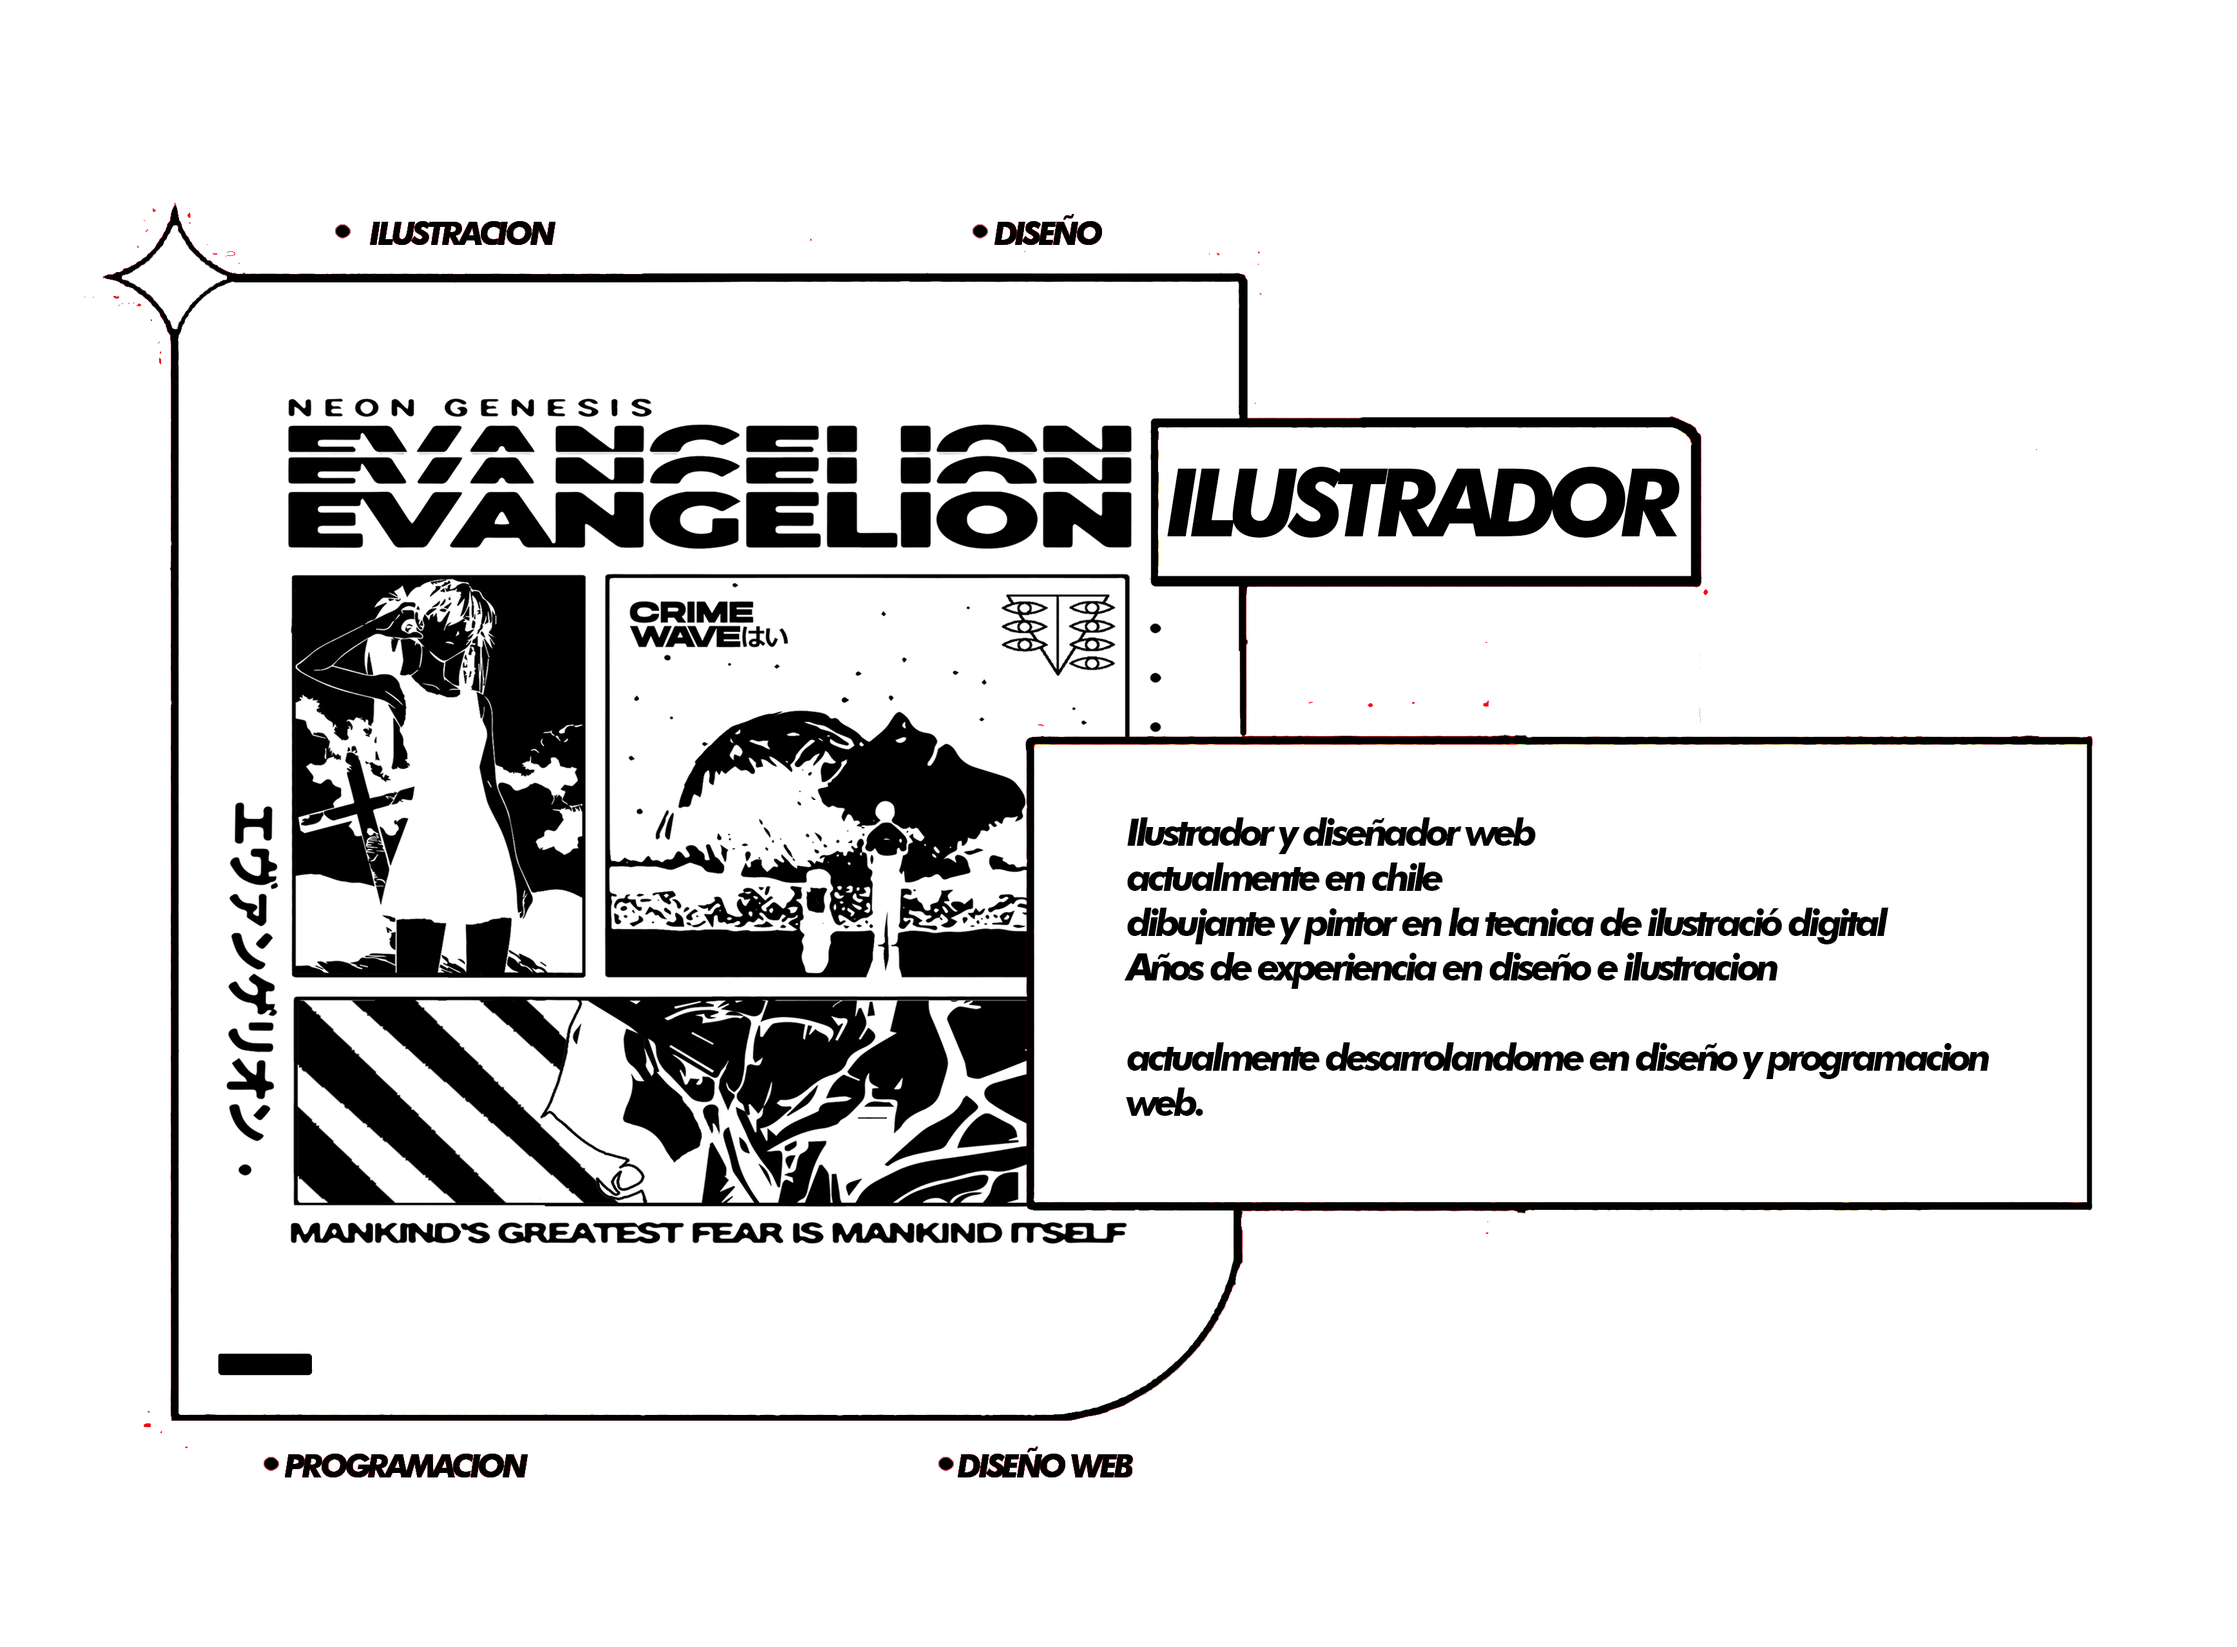
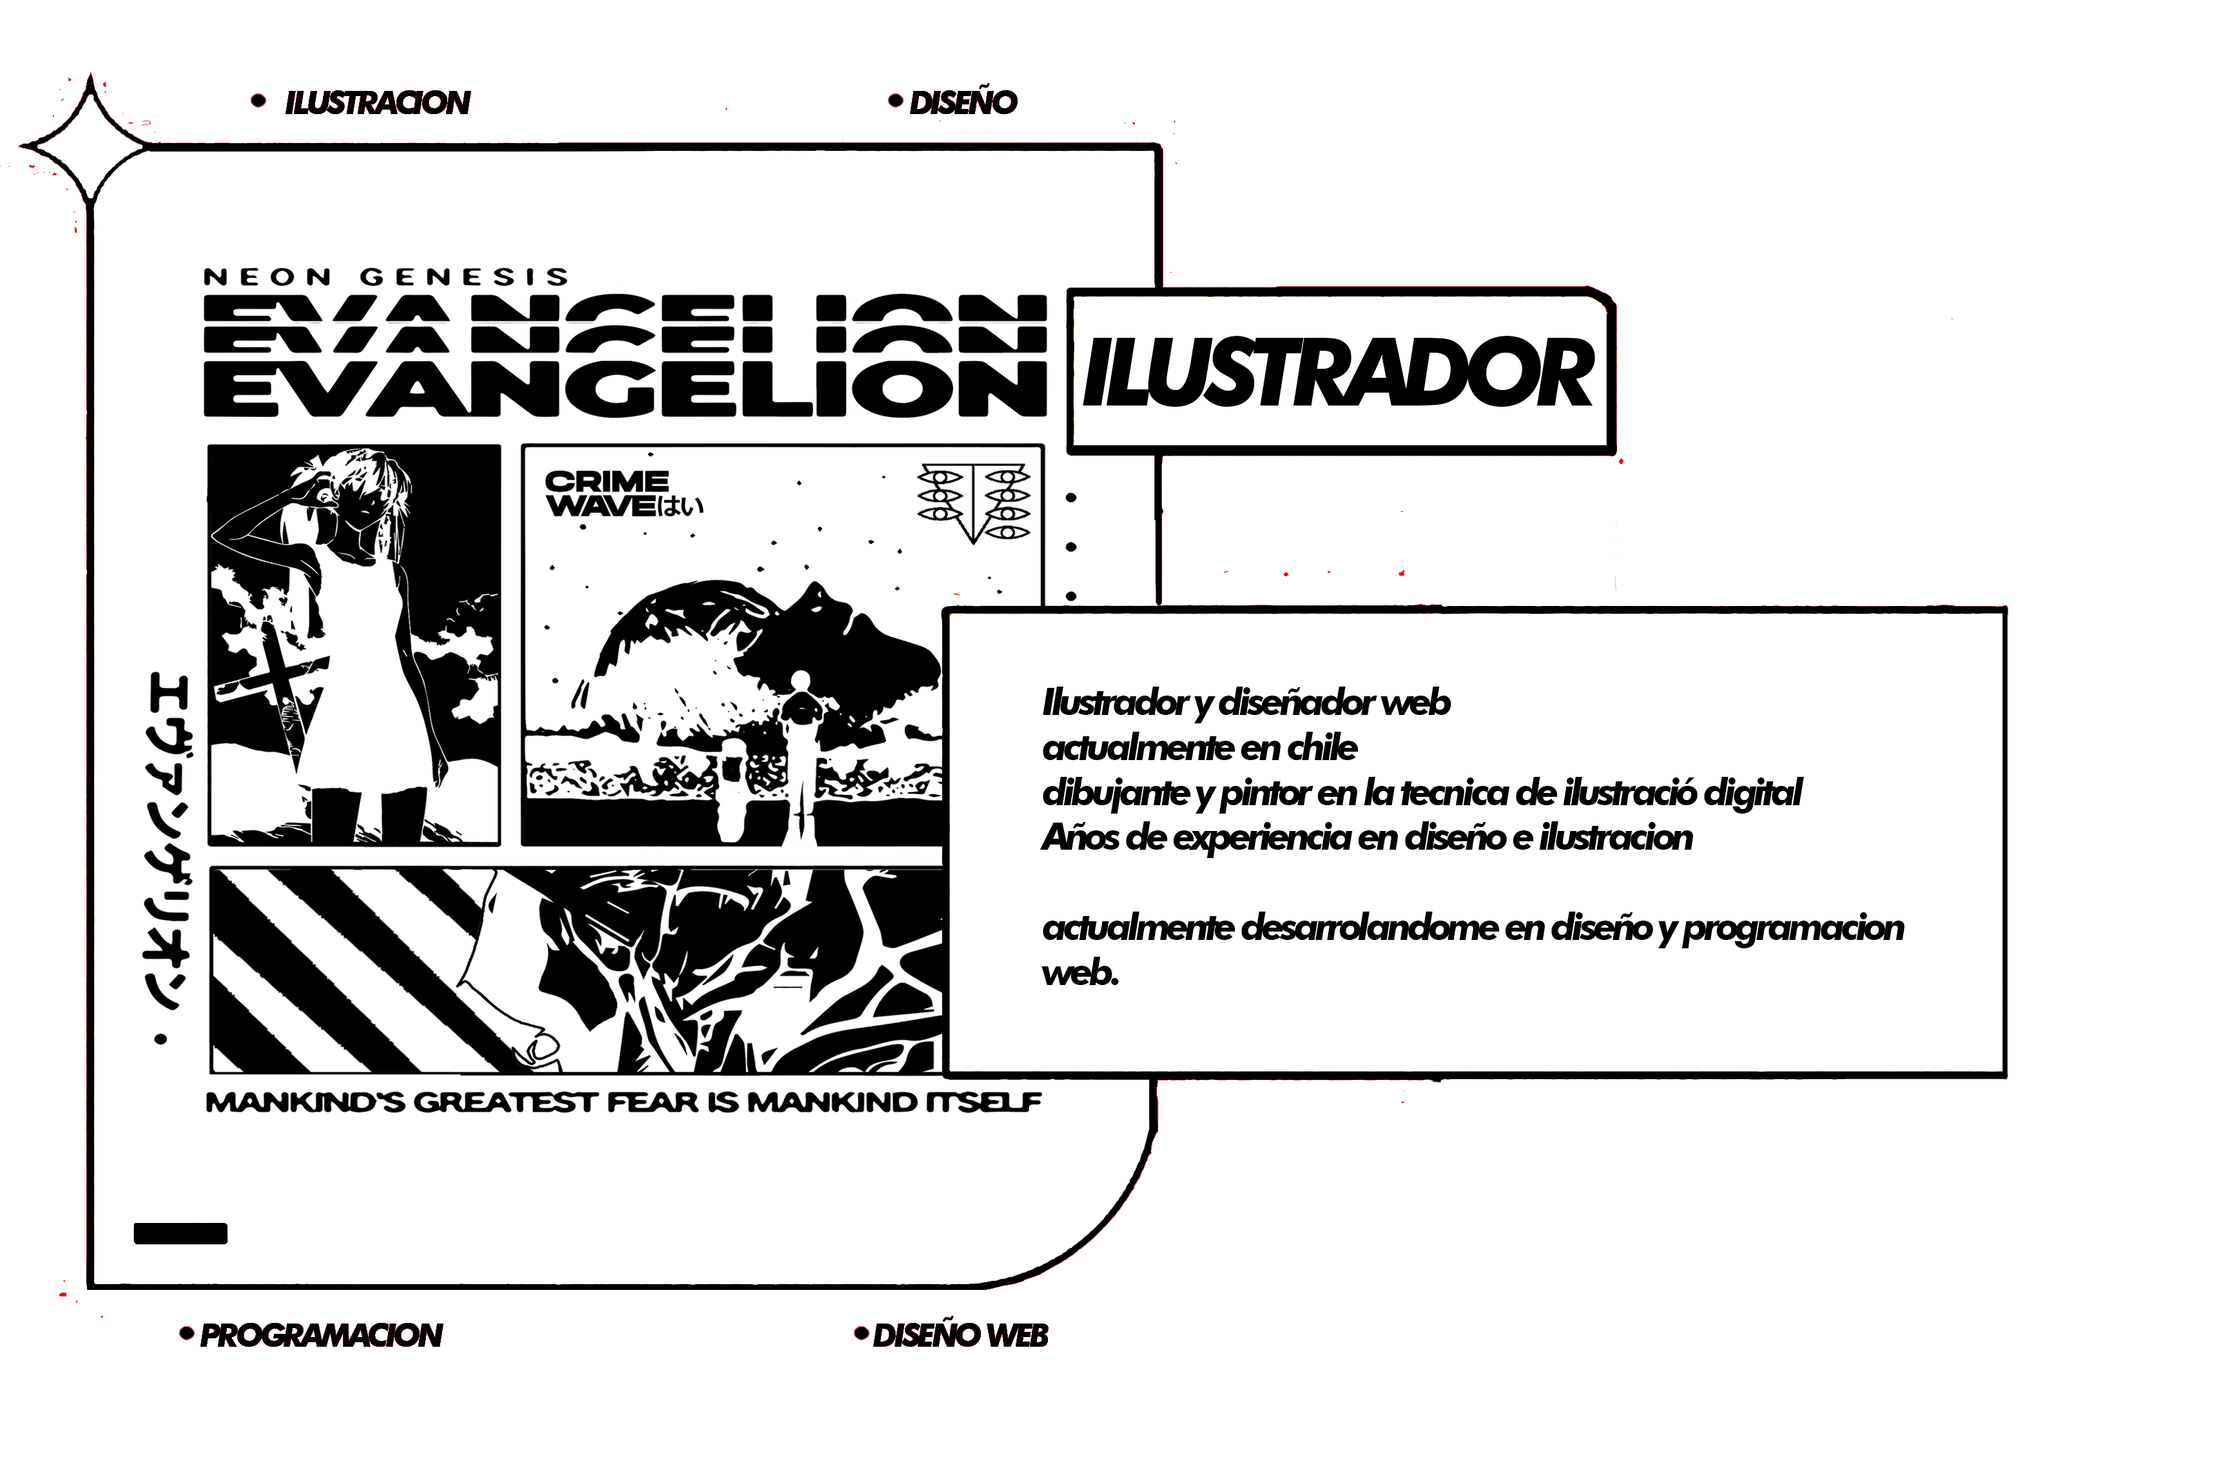
arreglos-acerca-de-mi

Changed region(s): [[0.0, 0.0624, 0.9334, 0.9367], [0.6845, 0.7181, 0.809, 0.7493], [0.8401, 0.7181, 0.9334, 0.7493]]

diff --git a/index.html b/index.html
@@ -55,6 +55,7 @@
             <div class="row">
                 <div class="col-12 col-md-1 my-5">
                     <img class="gif" src="assets/img/neon.gif" alt="neon">
+                    <p class=" my-3">Devil Man</p>
                 </div>
                 <div class="ms-auto col-12 col-md-6">
                     <h1 class=" titulo display-1 fw-bold my-5">
@@ -76,41 +77,22 @@
     </header>
 
 
-    <section id="Acerca-de-mi" class="container text-center my-5">
-
-
-        <h2 class="display-3 fw-bold my-4">Acerca de mi</h2>
-
-        <p class="my-4">
-            Me llamo Alvaro del Canto, tengo 24 años y vivo actualmente en Chile
-            en al ciudad de Santiago
-        </p>
-
-
-        <div class="row">
-            <div class="col-12 col-md-4">
-                <i class="fas bi bi-brush fa-3x my-3"></i>
-                <h3 class="my-3 fw-bold">Ilustrador digital</h3>
-                <p class="my-3">
-                    dibujante y pintor en la tecnica de ilustració digital
-                    en distintos programas tales como Photoshop, Illustrator, Clip Studio, Procreate.
-                    me especializo en el concept Art
-                </p>
-            </div>
-            <div class="col-12 col-md-4">
-                <i class="fas bi bi-suit-heart-fill fa-3x my-3"></i>
-                <h3 class="my-3 fw-bold">Curiosidades</h3>
-                <p class="my-3">
-                    me gusta dibujar, salir a caminar, ver series de anime entre otras, me gusta hacer deportes y tengo
-                    un perrito llamado samuel.
-                </p>
-            </div>
-            <div class="col-12 col-md-4">
-                <i class="fas bi bi-bicycle fa-3x my-3"></i>
-                <h3 class="my-3 fw-bold">Deportes</h3>
-                <p class="my-3">
-                    Practico Deportes entre ellos bicicleta y skate, actualmente ando mas en bicicleta.
-                </p>
+    <section id="Acerca-de-mi" class="container text-center my-4">
+        <div class="container">
+            <div class="row">
+                <div>
+                    <h2 class="acercademi display-3 fw-bold m-0 text-white ">Acerca de mi <i class="bi bi-arrow-through-heart-fill"></i> </h2>
+                </div>
+                <div class="ilustrador col-12 col-md-7 my-6 ">
+                    <img class="aboutme img-fluid" src="assets/img/aboutme.png" alt="neon">
+                </div>
+                <div class="ms-auto col-12 col-md-5 mt-5 ">
+                    <img class="gif2" src="assets/img/yomerito.gif" alt="">
+                    <div class=" mb-5 pb-4">
+                        <button class="btn btn-lg btn-black text-light bg-dark"> <img class="gif3"
+                                src="assets/img/animadorboton.gif" alt=""></button>
+                    </div>
+                </div>
             </div>
         </div>
     </section>

diff --git a/assets/css/portafolio.css b/assets/css/portafolio.css
@@ -48,9 +48,32 @@ padding: 0px;
 }
 
 .btn{
-  margin-top: 2rem;
+  margin-top: 3rem;
+  width: 9rem;
 }
 .gif{
   width: 10rem;
+
+}
+.aboutme{
+  height: 500px;
+}
+.acercademi{
+ font-family: 'Franklin Gothic Medium', 'Arial Narrow', Arial, sans-serif;
+}
+.devian{
+  margin-top: 20rem;
+}
+.gif2{
+  width: 22rem;
+}
+.titulo{
+  font-family: 'Courier New', Courier, monospace;
   
+}
+.gif3{
+  width: 5rem;
+}
+.ilustrador{
+  margin-top: 4rem;
 }
